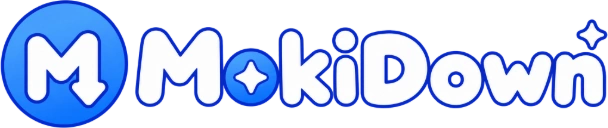
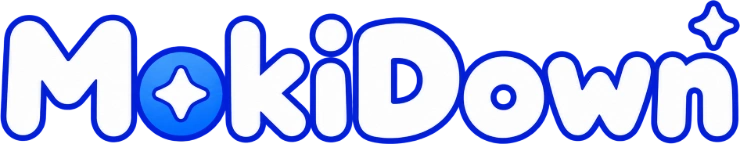
feat(brand): 左上角换用纯文字字标，并移除品类描述行
* 字标替换为「蓝边白字 MokiDown」纯文字版（不含左侧圆形 M 图标）；按内容包围盒裁掉四周留白后输出 740×144 WebP（36KB）
* 移除侧栏的「Markdown 编辑器」描述行：字标本身已写明产品名，再跟一行灰字属重复信息
* 随之删除已无引用的 sidebar__descriptor 样式，侧栏头部由竖排两行简化为单行

diff --git a/src/components/layout/sidebar/sidebar.scss b/src/components/layout/sidebar/sidebar.scss
@@ -20,31 +20,18 @@
   }
 }
 
-// 品牌区：完整产品字标在上、品类描述在下。
-// 字标本身已包含圆形图标与「MokiDown」文字，因此不再单独渲染标题行。
+// 品牌区：只放产品字标（蓝边白字「MokiDown」），不再跟一行品类描述。
 .sidebar__header {
   display: flex;
-  flex-direction: column;
-  align-items: flex-start;
-  gap: 4px;
+  align-items: center;
   padding: 12px 16px;
   border-bottom: 1px solid var(--border);
 }
 
 .sidebar__wordmark {
-  /* 240px 内容宽下，30px 高的字标约占 143px，留有余量不会顶到边界。 */
+  /* 248px 内容宽下，30px 高的字标约 154px，留有余量不会顶到边界。 */
   --app-mark-size: 30px;
   margin-left: -2px;
-}
-
-// 品类描述：跟在字标下方。字标自带「MokiDown」文字，不再需要单独的品牌标题行。
-.sidebar__descriptor {
-  font-size: 10px;
-  line-height: 1.2;
-  color: var(--text-dim);
-  white-space: nowrap;
-  overflow: hidden;
-  text-overflow: ellipsis;
 }
 
 .sidebar__tabs {

diff --git a/src/components/layout/sidebar/Sidebar.jsx b/src/components/layout/sidebar/Sidebar.jsx
@@ -424,12 +424,8 @@ function Sidebar({ onOpenSettings, onOpenStats, onOpenLogin }) {
   return (
     <aside className={cn('sidebar', !sidebarVisible && 'sidebar--hidden')}>
       <div className="sidebar__header">
-        {/*
-          左上角使用完整产品字标（圆形 M 图标 + 手绘圆体「MokiDown」是一体构图），
-          因此不再另起一行文字标题，只保留下方描述。
-        */}
+        {/* 左上角只保留产品字标（蓝边白字「MokiDown」）。 */}
         <AppMark size={30} variant="wordmark" className="sidebar__wordmark" />
-        <p className="sidebar__descriptor">{t('app.descriptor')}</p>
       </div>
 
       <div className="sidebar__tabs" role="tablist" aria-label={t('sidebar.tabs')}>
